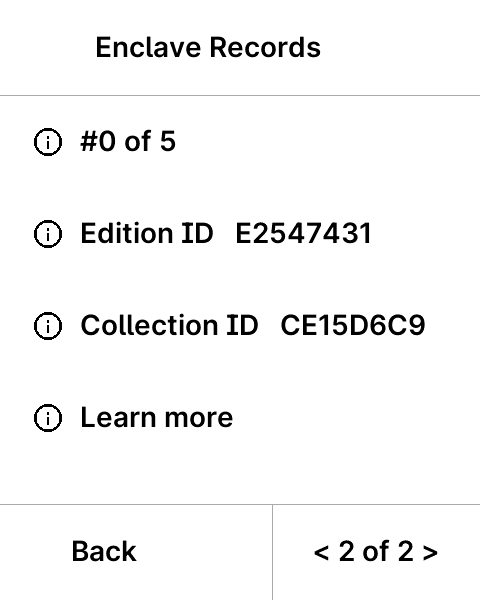
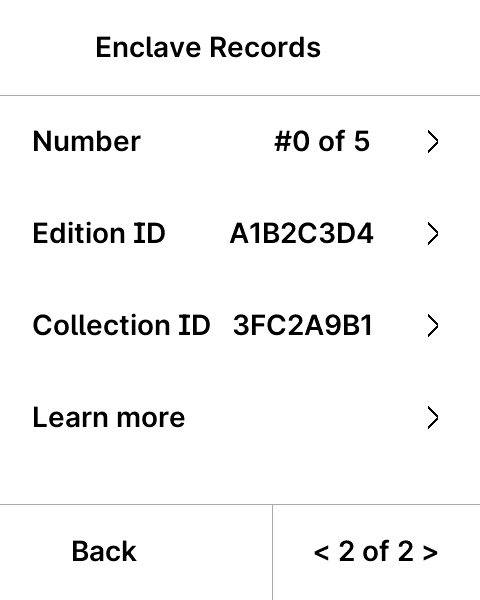
Lot 1 UI polish: robust list rows + navigable back-of-record
Library list rows (2- and 3-record): the title is now truncated to a
single line (SDK-measured, ASCII ellipsis) so a long title like "Random
Access Memories" never wraps and shoves the status line into the record
below. The status separator is a hyphen: the device font ships no dot
glyph (both U+2022 and U+00B7 drop out to a blank gap). The list-row
master status is the compact "N of M left" so three rows clear the
footer; the single-record hero keeps the full "N of M left to press".

Back of the record is now navigable settings rows: label left, value
right-aligned into a column, and a right-pointing chevron as the tap
affordance. The repeated left (i) is gone (INFO_ICON dropped, chevron
glyph added in build.rs). The number row gains a "Number" label.

Screens in docs/screens-v2 regenerated (03, 03b long-title, 04, 07).
Tests green (28 passed); data_size 16896 (< 32256).

diff --git a/device-app/src/handlers/collection.rs b/device-app/src/handlers/collection.rs
@@ -76,11 +76,91 @@ fn sleeve_verified(sleeve_hash: &[u8; 32]) -> bool {
 //  Flex / Stax: the record card, its back, and the authenticity sub-page.
 // ==========================================================================
 
-/// The circled-i info affordance. A *compiled* glyph (`include_gif`), generated
-/// at build time by `build.rs`: a runtime heap icon faults under PIC relocation
-/// on this target, so the info button must point at baked flash.
+/// The right-pointing chevron ("›") that ends each back-of-record row: the tap
+/// affordance for the row's sub-page. A *compiled* glyph (`include_gif`),
+/// generated at build time by `build.rs`, because a runtime heap icon faults
+/// under PIC relocation on this target, so it must point at baked flash.
 #[cfg(any(target_os = "stax", target_os = "flex"))]
-const INFO_ICON: NbglGlyph = NbglGlyph::from_include(include_gif!("glyphs/info_nbgl.png", NBGL));
+const CHEVRON_ICON: NbglGlyph =
+    NbglGlyph::from_include(include_gif!("glyphs/chevron_nbgl.png", NBGL));
+
+/// The separator between the two facts of a library row's status line
+/// ("Master record{SEP}N of M left to press"). The device font ships no dot
+/// glyph (neither the U+2022 bullet nor the U+00B7 middle dot render: they drop
+/// out to a bare gap), so the separator is a hyphen, which does render. One
+/// space on each side.
+#[cfg(any(target_os = "stax", target_os = "flex"))]
+const ROW_SEP: &str = " - ";
+
+/// Shorten `text` so it renders on a single line no wider than `max_px` in
+/// `font`, appending an ASCII ellipsis when it had to cut. A library row's
+/// title must never wrap: a wrapped title grows the row and shoves the status
+/// line into the record below it. Measured with the SDK's own metrics so it
+/// holds for any title, not a guessed character budget.
+#[cfg(any(target_os = "stax", target_os = "flex"))]
+fn fit_one_line(text: &str, font: ledger_secure_sdk_sys::nbgl_font_id_e, max_px: u16) -> String {
+    let measure = |s: &str| -> u16 {
+        let c = CString::new(s).unwrap_or_default();
+        unsafe { ledger_secure_sdk_sys::nbgl_getSingleLineTextWidth(font, c.as_ptr()) }
+    };
+    if measure(text) <= max_px {
+        return String::from(text);
+    }
+    let ellipsis = "...";
+    let mut end = text.len();
+    while end > 0 {
+        end -= 1;
+        while end > 0 && !text.is_char_boundary(end) {
+            end -= 1;
+        }
+        let candidate = format!("{}{}", text[..end].trim_end(), ellipsis);
+        if measure(&candidate) <= max_px {
+            return candidate;
+        }
+    }
+    String::from(ellipsis)
+}
+
+/// Widest a library row's title may be before it is truncated: the row's inner
+/// width less the thumbnail on its left and a margin so the status line's first
+/// word is never crowded. Flex is 480 wide; the value is deliberately
+/// conservative so the title always clears the thumbnail on one line.
+#[cfg(any(target_os = "stax", target_os = "flex"))]
+const ROW_TITLE_MAX_PX: u16 = 300;
+
+/// A back-of-record row, laid out label-left / value-right: the label, then
+/// enough spaces that the value's right edge lands near `right_px`, so the
+/// values line up in a column just left of the chevron. Padded with real spaces
+/// (the bar's text is a single left-aligned string; NBGL keeps interior runs of
+/// spaces), and the target is kept short of the text area so the row can never
+/// wrap. Measured with the SDK metrics so the column holds whatever the value.
+#[cfg(any(target_os = "stax", target_os = "flex"))]
+fn label_value_row(
+    label: &str,
+    value: &str,
+    font: ledger_secure_sdk_sys::nbgl_font_id_e,
+    right_px: u16,
+) -> String {
+    let measure = |s: &str| -> u16 {
+        let c = CString::new(s).unwrap_or_default();
+        unsafe { ledger_secure_sdk_sys::nbgl_getSingleLineTextWidth(font, c.as_ptr()) }
+    };
+    let space_w = measure("A A").saturating_sub(measure("AA")).max(1);
+    let min_gap = 2usize;
+    let base = format!("{}{}{}", label, " ".repeat(min_gap), value);
+    let base_w = measure(&base);
+    if base_w >= right_px {
+        return base;
+    }
+    let extra = ((right_px - base_w) / space_w) as usize;
+    format!("{}{}{}", label, " ".repeat(min_gap + extra), value)
+}
+
+/// Where the value column's right edge sits on the back-of-record rows: short
+/// of the ~372px text area (416 inner, less the chevron and its interval) so a
+/// padded row never wraps, and clear enough of the chevron to read as a column.
+#[cfg(any(target_os = "stax", target_os = "flex"))]
+const ROW_VALUE_RIGHT_PX: u16 = 344;
 
 /// Which record a card shows. A device holds a master, a pressing, or (rarely)
 /// both; the library row tapped selects which.
@@ -201,7 +281,7 @@ fn draw_page(card: &CardData, page: Page) -> Result<crate::app_ui::library::Exit
         strings[strings.len() - 1].as_ptr()
     };
 
-    let info_details: ledger_secure_sdk_sys::nbgl_icon_details_t = (&INFO_ICON).into();
+    let chevron_details: ledger_secure_sdk_sys::nbgl_icon_details_t = (&CHEVRON_ICON).into();
     let mut pairs: Vec<nbgl_contentTagValue_t> = Vec::new();
 
     // "#N of M" everywhere the number is shown; the master plate is #0, its own
@@ -240,40 +320,38 @@ fn draw_page(card: &CardData, page: Page) -> Result<crate::app_ui::library::Exit
             );
         }
         Page::Back => {
-            // The back envelope: one info line per fact, each with its own (i)
-            // opening a sub-page. A top-right header button faults on tap in this
-            // raw-layout context, but a touchable bar (the library-row primitive)
-            // is sound, so every (i) is a touchable bar carrying the compiled
-            // circled-i glyph.
+            // The back envelope, as navigable "settings rows": one fact per row,
+            // its label on the left and value inlined toward the right, ending in
+            // a chevron that is the tap affordance into the fact's sub-page. The
+            // repeated left (i) is gone: the chevron carries the affordance.
             layout.header(cstr(String::from("Enclave Records")), core::ptr::null());
-            // Single-line rows only: a touchable bar with a sub-text is tall
-            // enough that four of them plus the header and split footer overrun
-            // the screen, so the two id values are inlined on their row rather
-            // than carried as a sub-text.
-            layout.touchable_bar(
-                &info_details,
-                cstr(number_line.clone()),
-                core::ptr::null(),
+            // Single-line rows only: a touchable bar tall enough to stack a value
+            // under its label overruns the screen once four rows sit above the
+            // header and split footer, so each row stays one line. The value is
+            // right-aligned into a column (see `label_value_row`); "Learn more"
+            // is an action row and carries no value.
+            let vfont = ledger_secure_sdk_sys::BAGL_FONT_INTER_SEMIBOLD_28px;
+            layout.nav_row(
+                cstr(label_value_row("Number", &number_line, vfont, ROW_VALUE_RIGHT_PX)),
+                &chevron_details,
                 TOKEN_INFO_NUMBER,
             );
-            layout.touchable_bar(
-                &info_details,
-                cstr(format!("Edition ID   {}", card.edition_id)),
-                core::ptr::null(),
+            layout.nav_row(
+                cstr(label_value_row("Edition ID", &card.edition_id, vfont, ROW_VALUE_RIGHT_PX)),
+                &chevron_details,
                 TOKEN_INFO_EDITION,
             );
-            layout.touchable_bar(
-                &info_details,
-                cstr(format!("Collection ID   {}", card.collection_id)),
-                core::ptr::null(),
+            layout.nav_row(
+                cstr(label_value_row(
+                    "Collection ID",
+                    &card.collection_id,
+                    vfont,
+                    ROW_VALUE_RIGHT_PX,
+                )),
+                &chevron_details,
                 TOKEN_INFO_COLLECTION,
             );
-            layout.touchable_bar(
-                &info_details,
-                cstr(String::from("Learn more")),
-                core::ptr::null(),
-                TOKEN_LEARN_MORE,
-            );
+            layout.nav_row(cstr(String::from("Learn more")), &chevron_details, TOKEN_LEARN_MORE);
             layout.split_footer(
                 cstr(String::from("Back")),
                 TOKEN_BACK,
@@ -608,10 +686,23 @@ impl Library {
             if both {
                 let thumb = crate::sleeve::to_display(&crate::sleeve::decimate(&canonical, n));
                 let icon = arena.icon(thumb, half as u16, half as u16, ledger_secure_sdk_sys::NBGL_BPP_1);
+                let title_fit = fit_one_line(
+                    title,
+                    ledger_secure_sdk_sys::BAGL_FONT_INTER_SEMIBOLD_28px,
+                    ROW_TITLE_MAX_PX,
+                );
+                // The list row's status is the compact "N of M left": with a
+                // thumbnail on its left, the hero's full "N of M left to press"
+                // would wrap to a second line and stack the rows too tall.
+                let row_status = if nvm.counter == 0 {
+                    String::from("Sold out")
+                } else {
+                    format!("{} of {} left", nvm.counter, nvm.edition)
+                };
                 layout.touchable_bar(
                     icon,
-                    cstr(String::from(title)),
-                    cstr(format!("Master record • {}", left)),
+                    cstr(title_fit),
+                    cstr(format!("Master record{}{}", ROW_SEP, row_status)),
                     TOKEN_MASTER,
                 );
             } else {
@@ -639,7 +730,12 @@ impl Library {
             if both {
                 let thumb = crate::sleeve::to_display(&crate::sleeve::decimate(&canonical, n));
                 let icon = arena.icon(thumb, half as u16, half as u16, ledger_secure_sdk_sys::NBGL_BPP_1);
-                layout.touchable_bar(icon, cstr(String::from(title)), cstr(status), TOKEN_PRESSING);
+                let title_fit = fit_one_line(
+                    title,
+                    ledger_secure_sdk_sys::BAGL_FONT_INTER_SEMIBOLD_28px,
+                    ROW_TITLE_MAX_PX,
+                );
+                layout.touchable_bar(icon, cstr(title_fit), cstr(status), TOKEN_PRESSING);
             } else {
                 // A default pressing is not labelled "your copy": what the owner
                 // holds is simply the record, shown by title and its "#N of M".
@@ -785,6 +881,11 @@ pub fn handler_library_preview(command: Command<'_>, count: u8) -> Result<Comman
     let mut layout = Layout::new();
     layout.header(cstr(String::from("Enclave Records")), core::ptr::null());
 
+    // The row-0 (master) title may be overridden by the APDU data, so the
+    // capture harness can exercise the real album names and a deliberately long
+    // title against the single-line truncation. Empty data keeps the default.
+    let override_title = core::str::from_utf8(command.get_data()).ok().filter(|s| !s.is_empty());
+
     // Short, single-line titles and status lines: a row whose title or status
     // wraps to two lines is tall enough that three no longer clear the footer.
     let titles = ["Nocturne", "Monolith", "Discovery", "Homework", "Eclipse", "Transit"];
@@ -794,11 +895,20 @@ pub fn handler_library_preview(command: Command<'_>, count: u8) -> Result<Comman
         let thumb = crate::sleeve::to_display(&crate::sleeve::decimate(&canonical, n));
         let icon = arena.icon(thumb, half as u16, half as u16, ledger_secure_sdk_sys::NBGL_BPP_1);
         let sub = if i == 0 {
-            String::from("Master record • 5 left")
+            format!("Master record{}5 of 5 left", ROW_SEP)
         } else {
             format!("#{} of 12", i)
         };
-        layout.touchable_bar(icon, cstr(String::from(titles[i % titles.len()])), cstr(sub), TOKEN_PRESSING);
+        let raw_title = match (i, override_title) {
+            (0, Some(t)) => t,
+            _ => titles[i % titles.len()],
+        };
+        let title_fit = fit_one_line(
+            raw_title,
+            ledger_secure_sdk_sys::BAGL_FONT_INTER_SEMIBOLD_28px,
+            ROW_TITLE_MAX_PX,
+        );
+        layout.touchable_bar(icon, cstr(title_fit), cstr(sub), TOKEN_PRESSING);
     }
     layout.footer(cstr(String::from("Quit")), TOKEN_QUIT);
     layout.draw();

diff --git a/device-app/build.rs b/device-app/build.rs
@@ -85,6 +85,36 @@ fn write_info_glyph(path: &std::path::Path) {
     write_gray_png(path, N as u32, N as u32, &px);
 }
 
+/// Draw a right-pointing chevron ("›") procedurally, the tap affordance at the
+/// right end of the back-of-record rows. Like the info glyph it must be a
+/// *compiled* icon (`include_gif!`): a runtime heap icon faults under PIC on
+/// this target. Black ink is 0, white ground is 255.
+fn write_chevron_glyph(path: &std::path::Path) {
+    const N: i32 = 32;
+    let mut px = vec![255u8; (N * N) as usize];
+    let mut set = |x: i32, y: i32| {
+        if (0..N).contains(&x) && (0..N).contains(&y) {
+            px[(y * N + x) as usize] = 0;
+        }
+    };
+    // Two arms meeting at a right-facing tip ("›"): the spread is widest at the
+    // left base and closes to a point at the right tip. Drawn with a short
+    // vertical brush so the stroke reads at a glance.
+    let tip_x = 21;
+    let base_x = 12;
+    let mid = (N - 1) / 2;
+    let span = tip_x - base_x;
+    for i in 0..=span {
+        let x = base_x + i;
+        let spread = span - i;
+        for t in 0..3 {
+            set(x, mid - spread - t);
+            set(x, mid + spread + t);
+        }
+    }
+    write_gray_png(path, N as u32, N as u32, &px);
+}
+
 fn main() {
     println!("cargo:rerun-if-changed=script.ld");
     println!("cargo:rerun-if-changed=icons/crab_14x14.gif");
@@ -92,6 +122,7 @@ fn main() {
     println!("cargo:rerun-if-changed=build.rs");
 
     write_info_glyph(&PathBuf::from("glyphs").join("info_nbgl.png"));
+    write_chevron_glyph(&PathBuf::from("glyphs").join("chevron_nbgl.png"));
 
     let icons = PathBuf::from("icons");
     let (width, height, mut gray) = gif_to_luma(&icons.join("crab_14x14.gif"));

diff --git a/device-app/src/app_ui/library.rs b/device-app/src/app_ui/library.rs
@@ -478,6 +478,33 @@ impl Layout {
         }
     }
 
+    /// A full-width tappable row carrying only a label and a right-hand chevron
+    /// (no left icon): the back-of-record "settings row". The chevron is the tap
+    /// affordance; NBGL right-aligns it and left-aligns the label, so a label
+    /// that embeds its value ("Edition ID   E2547431") reads as label-then-value
+    /// with the chevron at the end. Reports `token` when tapped.
+    pub fn nav_row(
+        &mut self,
+        text: *const core::ffi::c_char,
+        chevron: *const nbgl_icon_details_t,
+        token: u8,
+    ) {
+        let bar = nbgl_layoutBar_t {
+            iconLeft: ptr::null(),
+            text,
+            iconRight: chevron,
+            subText: ptr::null(),
+            large: false,
+            token,
+            inactive: false,
+            centered: false,
+            tuneId: 0,
+        };
+        unsafe {
+            nbgl_layoutAddTouchableBar(self.handle, &bar);
+        }
+    }
+
     /// A block of centered text with an optional smaller second line. Used for
     /// the empty state.
     pub fn text(&mut self, text: *const core::ffi::c_char, sub_text: *const core::ffi::c_char) {
